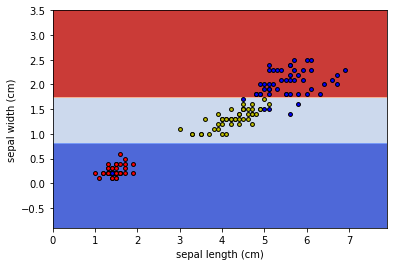
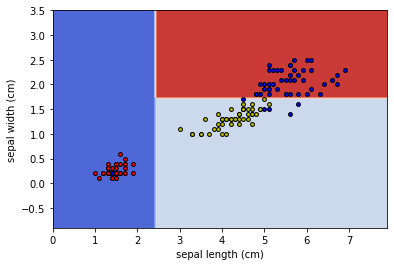
Update documentation

diff --git a/Chapter3/dt.html b/Chapter3/dt.html
@@ -505,7 +505,7 @@ The right subset&#39;s Gini impurity is 0.04,  and its label counts is {1.0: 1, 
 </div>
 </div>
 <div class="cell_output docutils container">
-<div class="output text_plain highlight-myst-ansi notranslate"><div class="highlight"><pre><span></span>[Text(0.4, 0.8333333333333334, &#39;X[1] &lt;= 0.8\ngini = 0.667\nsamples = 150\nvalue = [50, 50, 50]&#39;),
+<div class="output text_plain highlight-myst-ansi notranslate"><div class="highlight"><pre><span></span>[Text(0.4, 0.8333333333333334, &#39;X[0] &lt;= 2.45\ngini = 0.667\nsamples = 150\nvalue = [50, 50, 50]&#39;),
  Text(0.2, 0.5, &#39;gini = 0.0\nsamples = 50\nvalue = [50, 0, 0]&#39;),
  Text(0.6, 0.5, &#39;X[1] &lt;= 1.75\ngini = 0.5\nsamples = 100\nvalue = [0, 50, 50]&#39;),
  Text(0.4, 0.16666666666666666, &#39;gini = 0.168\nsamples = 54\nvalue = [0, 49, 5]&#39;),
@@ -638,7 +638,7 @@ The right subset&#39;s Gini impurity is 0.04,  and its label counts is {1.0: 1, 
 </div>
 </div>
 <p>So these two sets are really the same. The reason this happens can be seen from the following two graphs.</p>
-<p><img alt="" src="../_images/20220809120531.png" /> <img alt="" src="../_images/20220809122501.png" /></p>
+<p><img alt="" src="../_images/20220809120531.png" /> <img alt="" src="../_images/20220809122643.png" /></p>
 <p>So you can see that either way can give us the same classification. This means that given one dataset the construction of the decision tree might be random at some points.</p>
 <div class="admonition note">
 <p class="admonition-title">Note</p>
